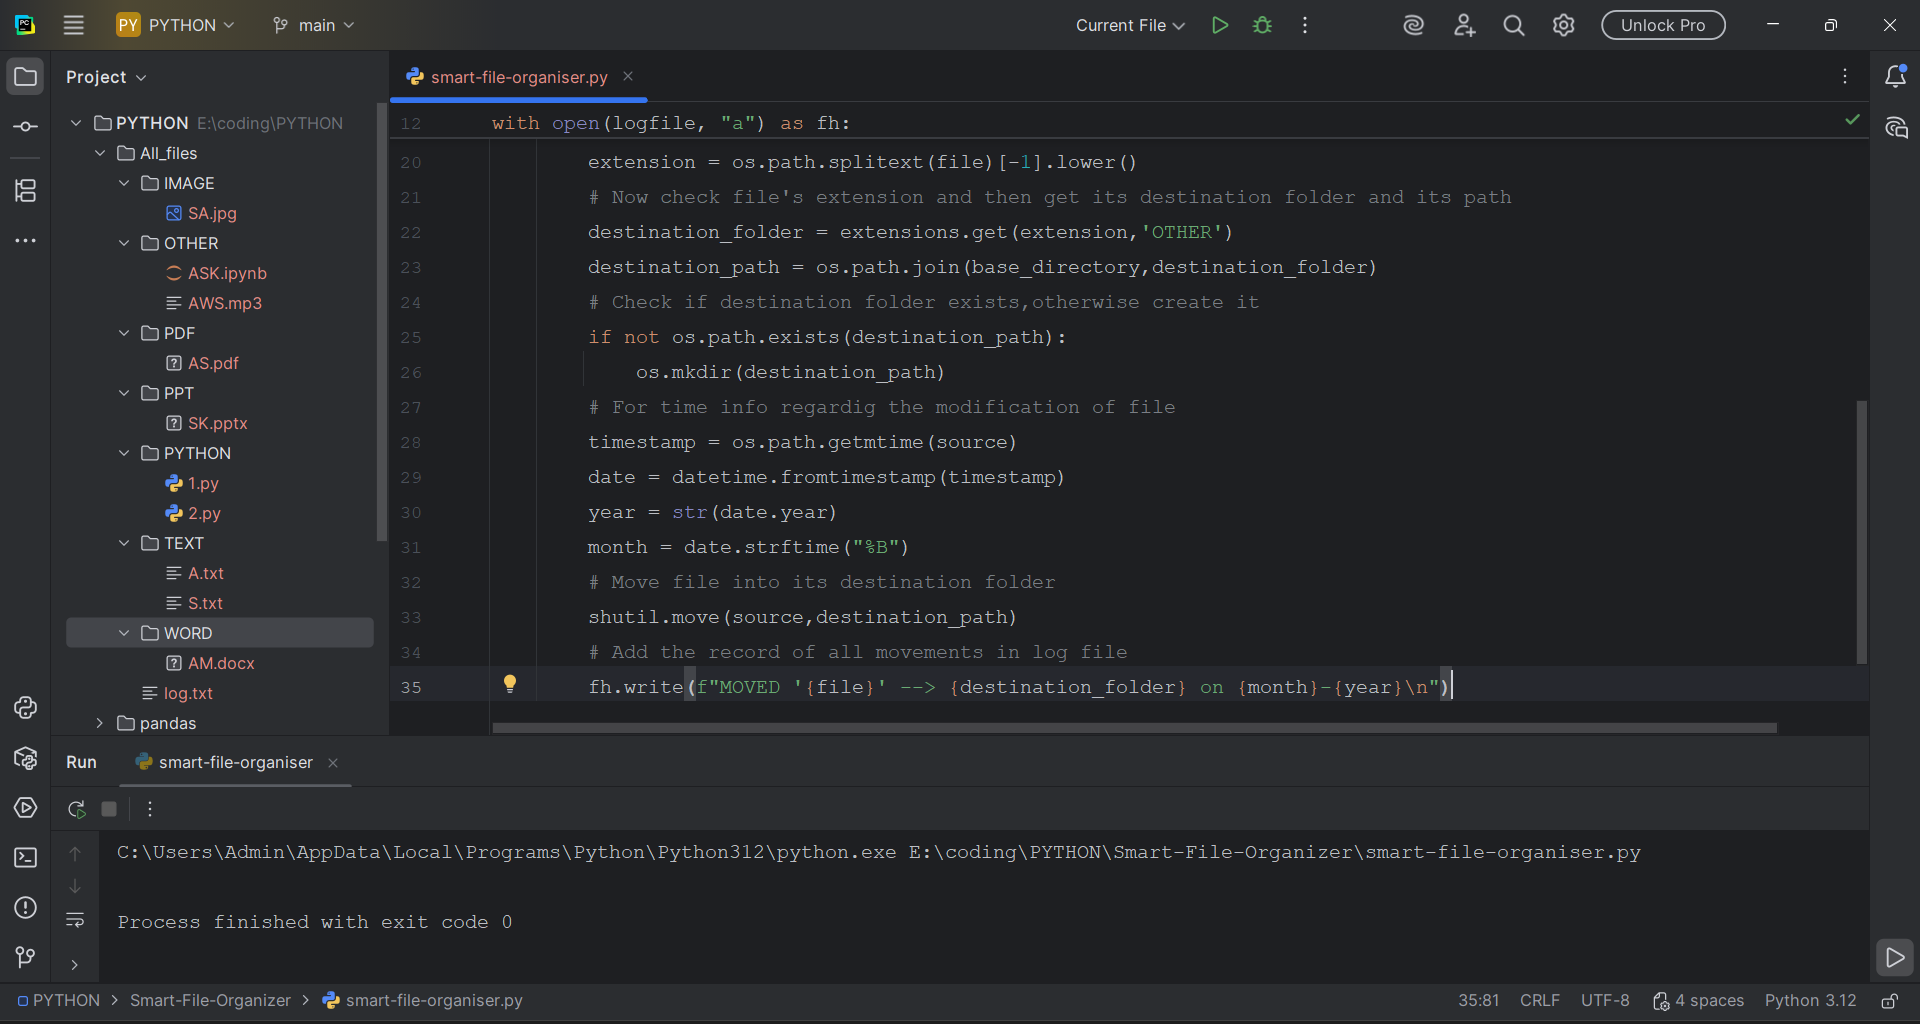
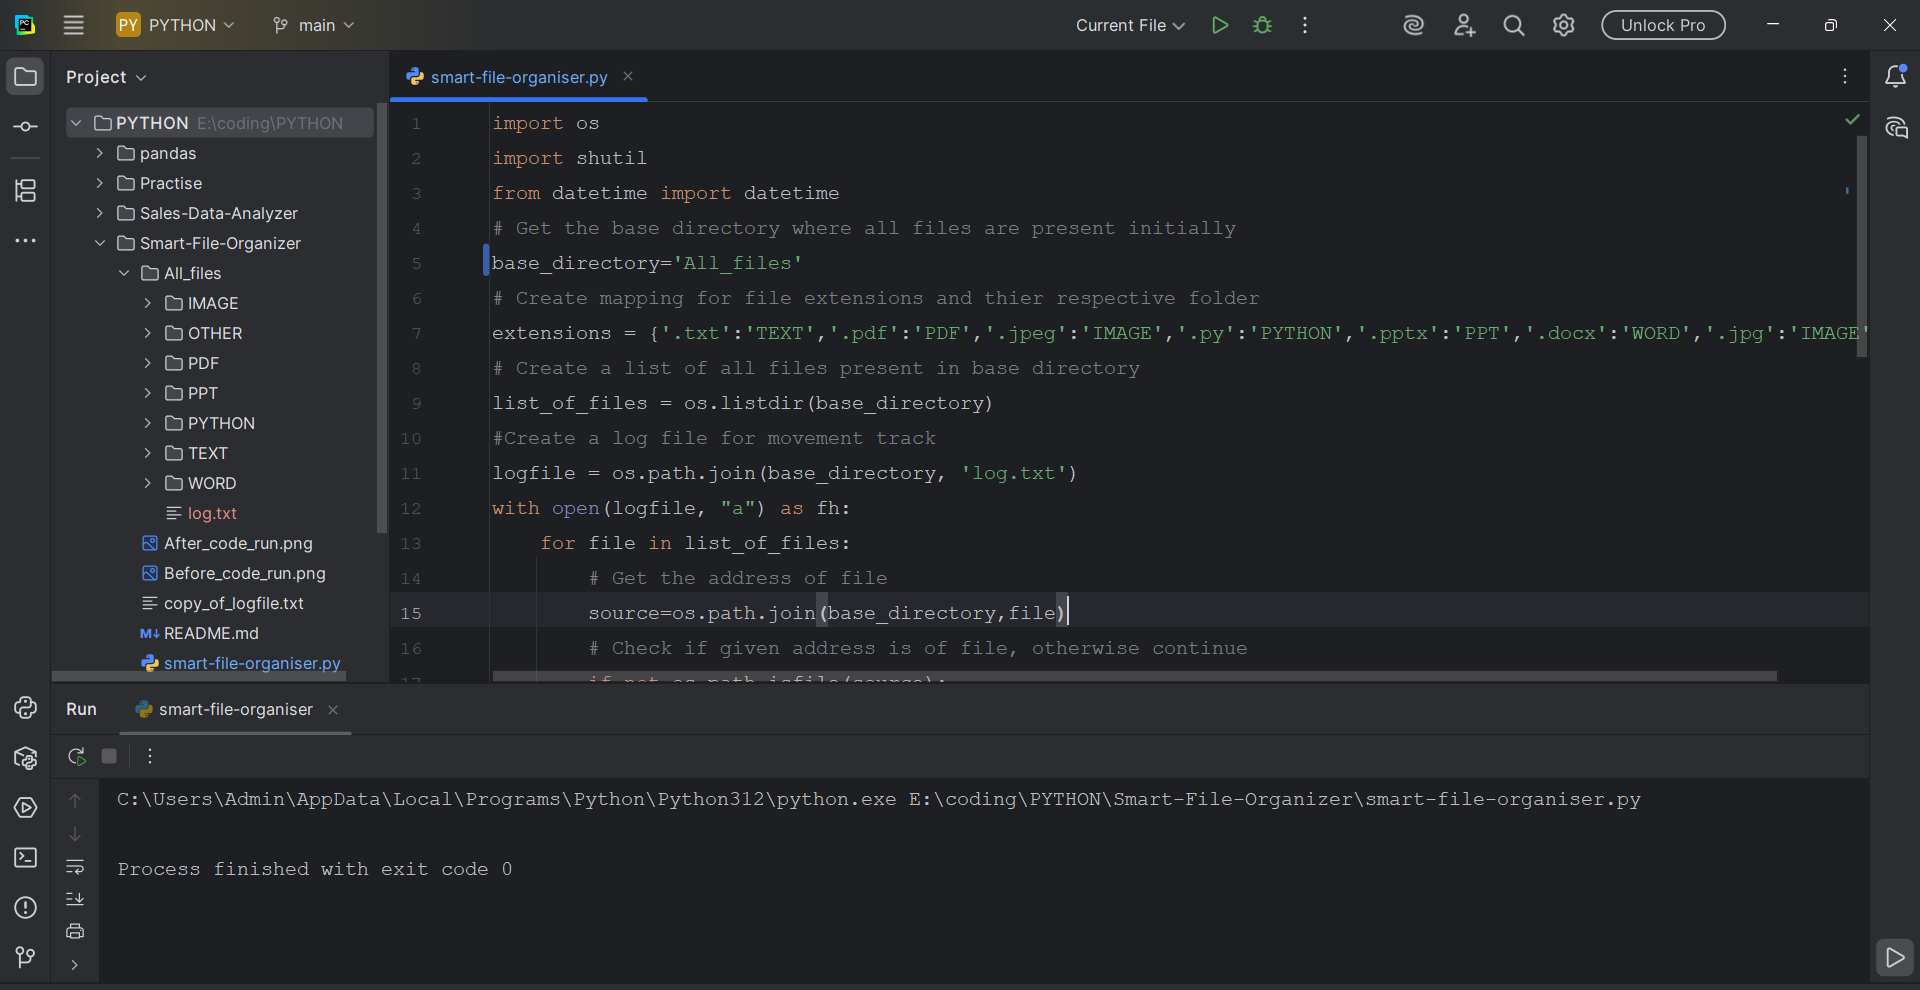
final

diff --git a/smart-file-organiser.py b/smart-file-organiser.py
@@ -2,7 +2,7 @@ import os
 import shutil
 from datetime import datetime
 # Get the base directory where all files are present initially
-base_directory=r'E:\coding\PYTHON\All_files'
+base_directory='All_files'
 # Create mapping for file extensions and thier respective folder
 extensions = {'.txt':'TEXT','.pdf':'PDF','.jpeg':'IMAGE','.py':'PYTHON','.pptx':'PPT','.docx':'WORD','.jpg':'IMAGE'}
 # Create a list of all files present in base directory
